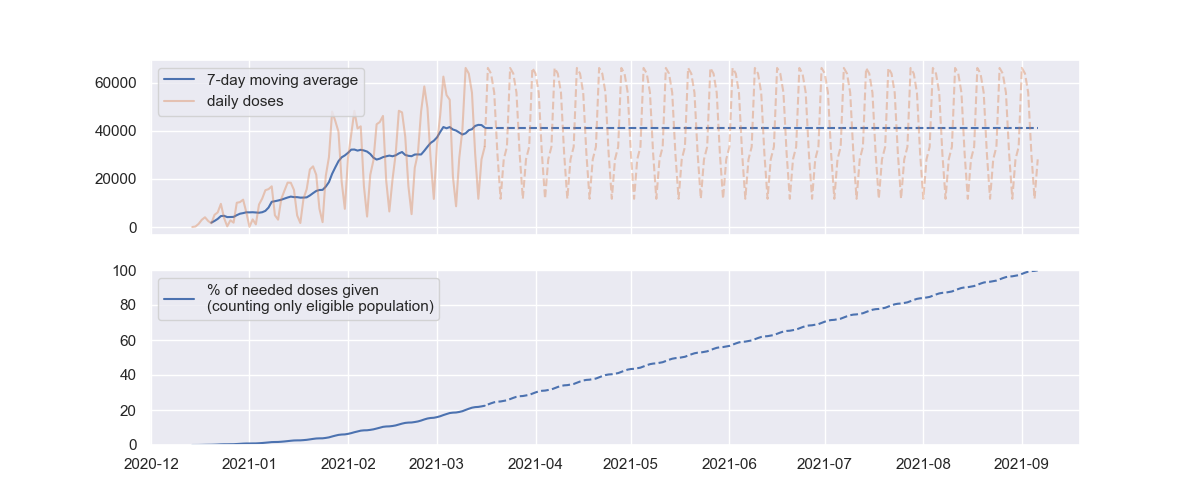
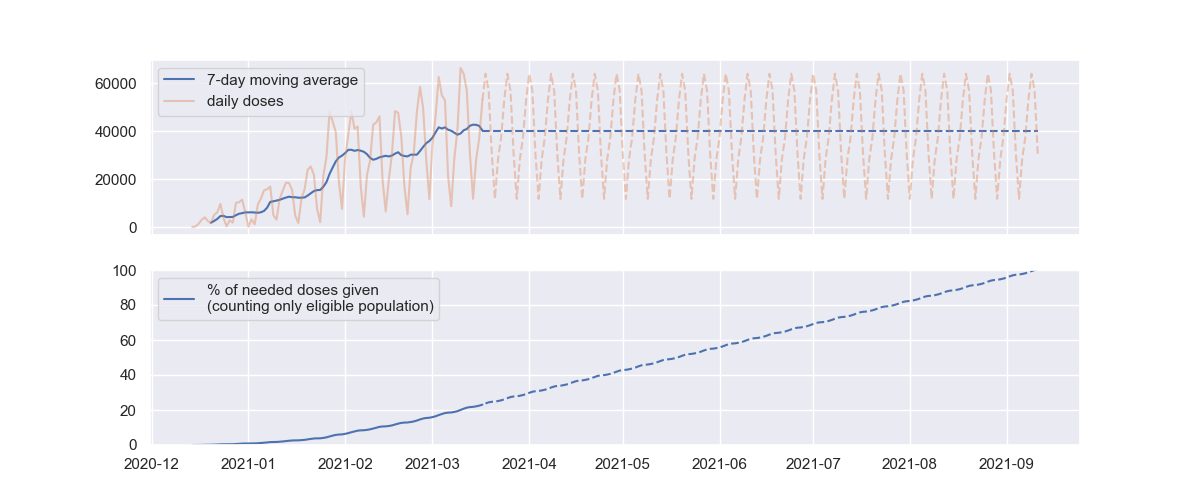
2021-03-19

diff --git a/README.md b/README.md
@@ -10,10 +10,10 @@ Raw data was obtained from https://www.dhs.wisconsin.gov/covid-19/vaccine-data.h
 
 ```
 $ python trax.py
-Data up through 2021-03-16, recent data is usually corrected to be higher
-41381 average doses per day over past 7 days (+2900 compared to 2 weeks ago)
-33.0 weeks (2021-11-01) for EVERY PERSON to get 2 doses
-24.9 weeks (2021-09-06) for all eligible people (over 16 years old) to get 2 doses
+Data up through 2021-03-17, recent data is usually corrected to be higher
+40257 average doses per day over past 7 days (+1199 compared to 2 weeks ago)
+33.7 weeks (2021-11-07) for EVERY PERSON to get 2 doses
+25.4 weeks (2021-09-11) for all eligible people (over 16 years old) to get 2 doses
 ```
 
 # Charts
